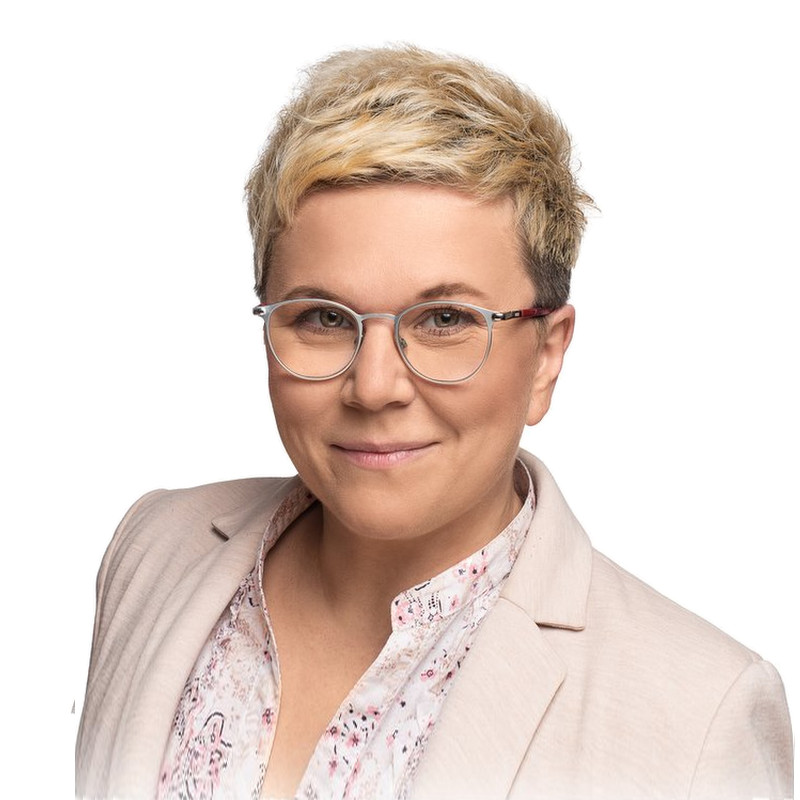
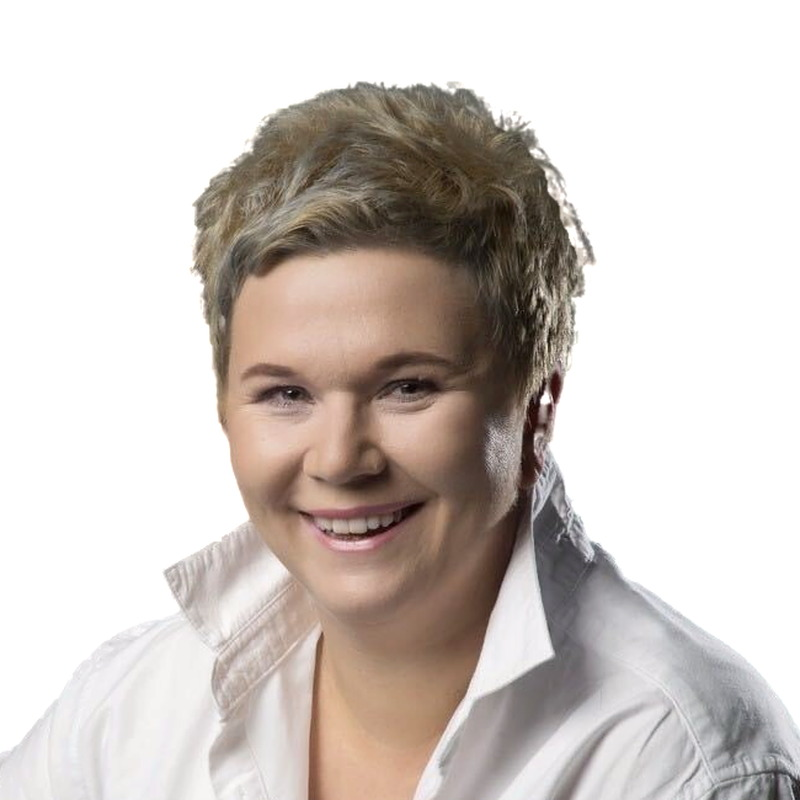
Regina Eichler (7): portret z noveho foceni
Zdroj IMG_2243.jpg od Pavly (2048x1367, tmave studiove pozadi), ulozen
i do repa jako fotky-drive/eichler-2026.jpg.

Pozadi odmazano (u2net-human-seg + alpha matting), tmavy lem na okraji
odpocitan (unmix), bile pozadi jako u zbytku serie. Ctvercovy orez podle
fotostylu: oci ~38 %, hlava ~59 %, hlava na stred, 800x800.

Fotobanka: zapis 7 ukazuje nasazenou verzi jako doporucenou a drzi
starsi varianty pro porovnani.

diff --git a/src/data/fotobanka.js b/src/data/fotobanka.js
@@ -17,7 +17,8 @@ export const fotobanka = {
   4:  [nej(web('marek_sterba_c.jpg'))],
   5:  [nej(web('martina_wolna_c.jpg'))],
   6:  [nej(drive('miskej.jpg')), raw('17-miskej-2.jpg')],
-  7:  [nej(web('regina_eichler_c.jpg')), drive('eichler.jpg'), raw('04-eichler-szpyrcova-2.jpg')],
+  7:  [nej(web('regina_eichler_c.jpg')), drive('eichler-2026.jpg'), drive('eichler.jpg'),
+       raw('04-eichler-szpyrcova-2.jpg')],
   8:  [nej(web('thanasis_antoniadis_c.jpg')), drive('antoniadis-2026.jpg'), drive('antoniadis.jpg'), raw('antoniadis.jpg')],
   9:  [nej(drive('szkandera.jpg')), raw('szkandera.jpg')],
   10: [nej(web('veronika_chmelarova_c.jpg')), raw('chmelarova.jpg')],
@@ -43,7 +44,7 @@ export const fotobanka = {
 
 // Poznámka, která se vypíše u karty kandidáta.
 export const poznamky = {
-  7:  'Na Drive je pod jménem Szpyrcová — je to stejná osoba. Soubory jsem přejmenoval na eichler, u originálu z profi série jsem původní jméno nechal v názvu.',
+  7:  'ZMĚNA 28. 8. 2026: nasazená verze je z nového focení (eichler-2026.jpg) — originál má tmavé studiové pozadí, odmazal jsem ho a nahradil bílým podle zbytku série. Na Drive je pod jménem Szpyrcová — je to stejná osoba.',
   10: 'Jediný podklad je snímek celé postavy z 24. 8. Ořízl jsem ho na čtverec podle fotostylu (oči 38 %, hlava 58 %), pozadí ale zůstalo — vlevo je vidět obraz na zdi. Na odmazání pozadí to chce projet stejnou pipeline jako zbytek série.',
   11: 'Upravená verze vznikla ze snímku celé postavy v sále — hlava je měkká. Doporučuji přefotit.',
   17: 'Originály jsou tmavé u cihlové zdi, ořez upravené verze je nejslabší z celé série. Doporučuji přefotit.',
